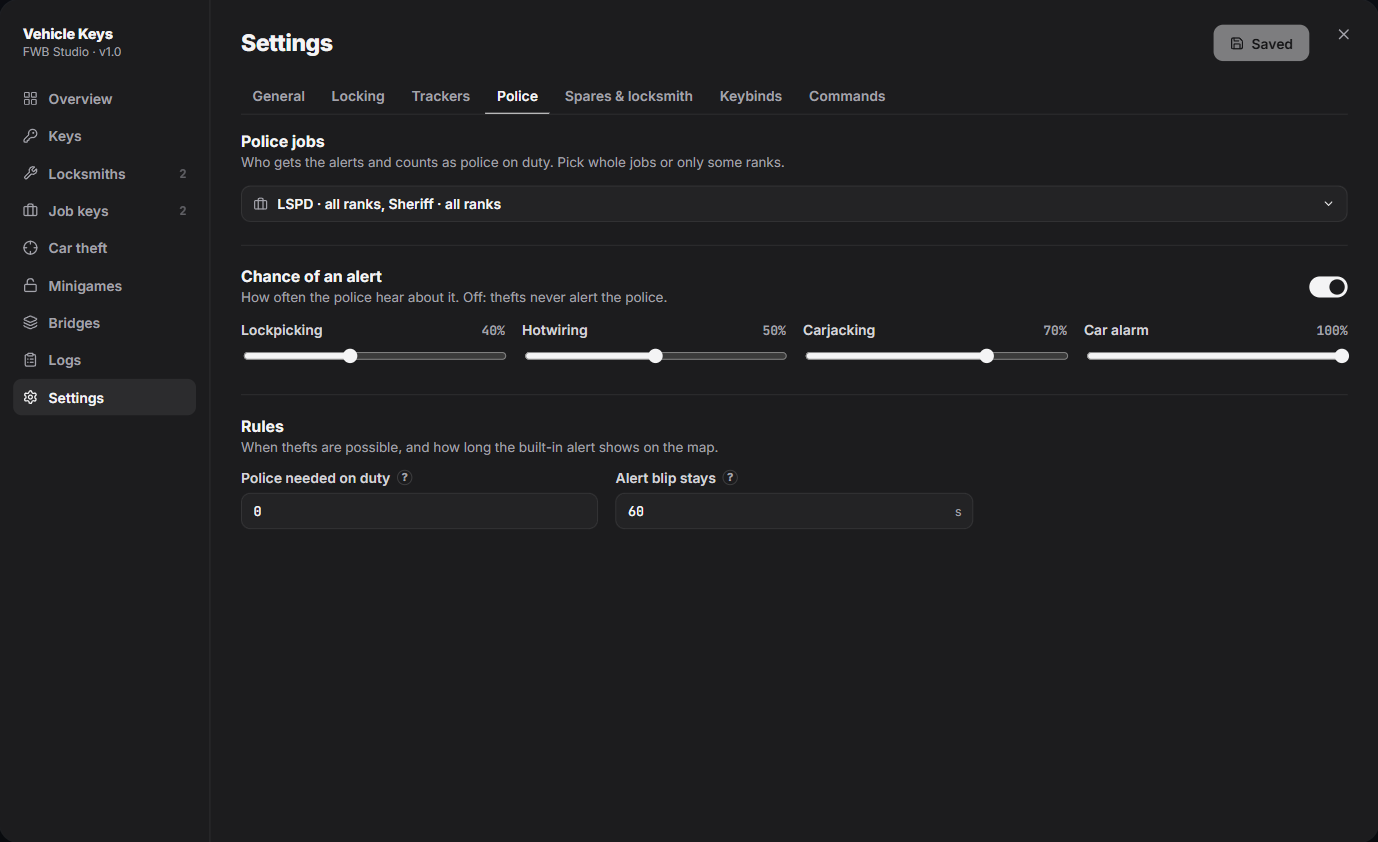
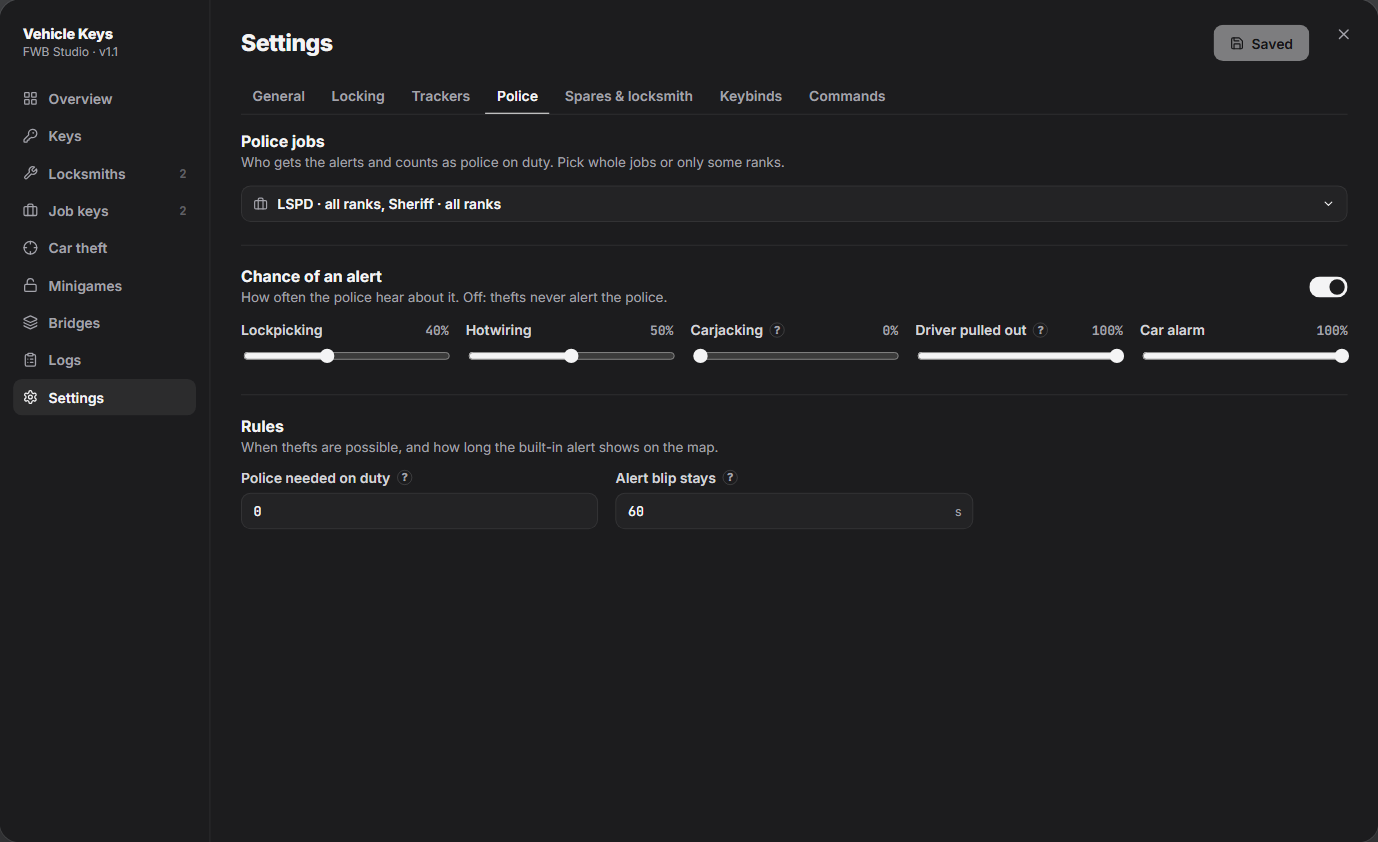
Vehicle Keys v1.1: wizard Engine step, NPC cars unlocked by default, driver pulled out alert

diff --git a/docs/resources/vehicle-keys/configuration.md b/docs/resources/vehicle-keys/configuration.md
@@ -16,30 +16,41 @@ Vehicle Keys has **no config file to edit**. Everything is set in game with `/fw
 
 ## First Setup
 
-The first time an admin opens `/fwb_vehiclekeys`, a setup wizard asks five questions. Every answer is an ordinary setting, so you can change it later on the pages below. **Skip** keeps the defaults; **Overview → Run the setup again** opens it later.
+The first time an admin opens `/fwb_vehiclekeys`, a setup wizard asks six questions. Every answer is an ordinary setting, so you can change it later on the pages below. **Skip** keeps the defaults; **Overview → Run the setup again** opens it later.
 
 | Step | Question |
 | :--- | :--- |
 | **Keys** | Key items in the inventory, or saved keys with no item |
 | **Controls** | Hold the lock key for the fob (and how long), or a key of its own; the lock, fob and engine keys |
-| **NPC cars** | Parked cars and cars on the road: all unlocked, random (and how many locked), or all locked |
+| **Engine** | How an engine that is off starts: from the key ring, with the engine key (`G`), and/or auto start (sitting down with a key, or pressing `W`). All on by default; the engine key or auto start always stays on |
+| **NPC cars** | Parked cars and cars on the road: all unlocked (the default), random (and how many locked), or all locked |
 | **Stealing cars** | Lockpick, hotwire, search for a key, carjacking: on or off |
-| **Police** | Police alerts on or off, the police jobs, the dispatch script |
+| **Police** | Police alerts on or off; alert when a driver is **pulled out** with the enter key (on by default) and on **carjacking with a weapon** (off by default); the police jobs; the dispatch script |
 
 You don't need the wizard for the script to work: without it, every setting has its default (for example the police jobs `police` and `sheriff`).
+
+::: tip Show the wizard again
+**Overview → Run the setup again** opens it with your current answers. To get the first-install wizard back, run this in your database and restart the resource (every other setting stays):
+
+```sql
+UPDATE fwb_keys_config SET v = JSON_SET(v, '$.setup.done', false) WHERE k = 'settings';
+```
+:::
 
 ![Vehicle Keys setup wizard, Controls step: hold the lock key for 1.5 seconds or a key of its own, with the lock, hold time and engine fields](/images/vehicle-keys/wizard-2-controls.png)
 
 ::: details Every step of the wizard
 ![Setup wizard step 1: key items in the inventory or saved keys with no item](/images/vehicle-keys/wizard-1-keys.png)
 
-![Setup wizard step 3: parked NPC cars and NPC cars on the road, all unlocked, random or all locked](/images/vehicle-keys/wizard-3-npc-cars.png)
+![Setup wizard step 3: how an engine that is off starts, from the key ring, with the engine key G or auto start](/images/vehicle-keys/wizard-3-engine.png)
 
-![Setup wizard step 4: lockpick, hotwire, search for a key and carjacking switches](/images/vehicle-keys/wizard-4-stealing.png)
+![Setup wizard step 4: parked NPC cars and NPC cars on the road, all unlocked, random or all locked](/images/vehicle-keys/wizard-4-npc-cars.png)
 
-![Setup wizard step 5: police alerts, police jobs and the dispatch script](/images/vehicle-keys/wizard-5-police.png)
+![Setup wizard step 5: lockpick, hotwire, search for a key and carjacking switches](/images/vehicle-keys/wizard-5-stealing.png)
 
-![Setup wizard summary: every answer with a Change button](/images/vehicle-keys/wizard-6-summary.png)
+![Setup wizard step 6: police alerts, driver pulled out and carjacking with a weapon, police jobs and the dispatch script](/images/vehicle-keys/wizard-6-police.png)
+
+![Setup wizard summary: every answer with a Change button](/images/vehicle-keys/wizard-7-summary.png)
 :::
 
 ---
@@ -65,9 +76,9 @@ You don't need the wizard for the script to work: without it, every setting has 
 | Tab | What you set there |
 | :--- | :--- |
 | **General** | Keys are items or saved keys, the key item name, how long **stolen keys** work (0 = until the owner changes the locks, the default), the format of **new plates** (for the `GeneratePlate` export), money sign and **Debug** (console messages; leave it off on a live server). |
-| **Locking** | How far the lock key and the fob reach, how far **Summon** reaches (100 m by default, up to 150 m), which key ring controls players get (windows, doors, seats, lights), lock chirp, flashing lights, fob animation, engine auto-start, engine keeps running, Summon. |
+| **Locking** | How far the lock key and the fob reach, how far **Summon** reaches (100 m by default, up to 150 m), which key ring controls players get (windows, doors, seats, lights), lock chirp, flashing lights, fob animation. **Engine:** starts by itself with a key, the engine key, the key ring's engine button (all on by default; it also starts a car nobody sits in), keeps running when you get out, Summon. While the engine is off, the driver sees a **[G] Start engine** hint at the bottom of the screen. |
 | **Trackers** | Item names (tracker, scanner, pliers), the detector held while scanning (`w_am_metaldetector` by default; trackers show no prop on the car), report rate, battery life, the fob's Track time, detector time per spot, minigame difficulties, what a wrong wire does, owner alerts and the kill switch. |
-| **Police** | Police jobs (whole job or one rank), the alert chance per action, the built-in blip time, and how many police must be on duty before lockpicking or hotwiring works. |
+| **Police** | Police jobs (whole job or one rank), the alert chance per action (lockpicking 40%, hotwiring 50%, **carjacking with a weapon 0%**, **driver pulled out 100%**, car alarm 100%), the built-in blip time, and how many police must be on duty before lockpicking or hotwiring works. **Driver pulled out** = a player pulls an NPC driver out of an unlocked car with the enter key, no weapon shown. |
 | **Spares & locksmith** | Spares per car, the spare fee, locksmith prices (new key, spare, change locks, tracker, detector, pliers, new plate), the plate cooldown and the hand-over fee. |
 | **Keybinds** | How the lock key works (tap to lock, hold for the fob, and how long: 1.5 s by default), and the default keys. |
 | **Commands** | The admin command name and its ACE. **Seats:** the seat command (`seatshuffle`, on or off) and **Passengers stay in their seat** (on by default: GTA no longer slides a front passenger into an empty driver seat). |
@@ -77,6 +88,8 @@ You don't need the wizard for the script to work: without it, every setting has 
 ![Settings, General tab: keys are items or saved keys, key item name, how long stolen keys work](/images/vehicle-keys/settings-general.png)
 
 ![Settings, Locking tab: lock key, fob and Summon reach, key ring controls](/images/vehicle-keys/settings-locking.png)
+
+![Settings, Locking tab, Engine: starts by itself with a key, engine key, key ring engine button, keeps running, Summon](/images/vehicle-keys/settings-locking-engine.png)
 
 ![Settings, Trackers tab: item names, scanner prop, report rate, battery and minigames](/images/vehicle-keys/settings-trackers.png)
 
@@ -93,7 +106,7 @@ You don't need the wizard for the script to work: without it, every setting has 
 
 | Tab | What you set there |
 | :--- | :--- |
-| **NPC cars** | **NPC cars are:** by chance (parked % and on-the-road %), every car locked, or no car locked. **Rules** are checked first, top to bottom, and the first that fits decides. Match by **vehicle type** (Emergency, Super, Motorcycles…), **model** (`police`) or **plate** (`LS*` = starts with LS). Each rule is always locked, never locked, or a chance %. |
+| **NPC cars** | **NPC cars are:** no car locked (the default), by chance (parked % and on-the-road %), or every car locked. **Rules** are checked first, top to bottom, and the first that fits decides. Match by **vehicle type** (Emergency, Super, Motorcycles…), **model** (`police`) or **plate** (`LS*` = starts with LS). Each rule is always locked, never locked, or a chance %. |
 | **Lockpicks** | Lockpick and advanced lockpick: item name (`carlockpick`, `advancedlockpick`), minigame difficulty, chance to open once the minigame is won (100% by default), chance to break. The alarm: chance and how long it sounds. |
 | **Hotwire & search** | Hotwire: time, difficulty, and the chance it works once the puzzle is won (100% by default: winning the puzzle always works). Search the car: time and chance to find a key. |
 | **Carjacking** | **Needs:** a gun, a gun or a melee weapon, or anything (bare hands). How long to threaten, the top speed of a car that still stops, and the threat animations. **What the driver does:** shares for throws you the key and runs / runs off with it / drives off / fights back, each shown as its real chance. **Police always get the key:** on by default, police jobs skip the roll. **Search the body:** time and chance (a driver who ran off with the key always has it). |

diff --git a/docs/resources/vehicle-keys/overview.md b/docs/resources/vehicle-keys/overview.md
@@ -33,7 +33,7 @@ Works on **ESX**, **QBCore** and **Qbox**, detected automatically.
 
 * **Lock key** — tap to lock or unlock the nearest car you have a key for. Hold it (1.5 s by default) to take out the key fob. The notification says which car: *Car locked — Albany Manana · KO1Z1H9 is locked.*
 * **Key fob** — the screen shows the distance, signal, lock state and plate. The buttons are lock, unlock, trunk, remote engine, **Summon** (the car drives itself to you, from up to 100 m by default, 150 m at most) and **Track** (your car on the map for a while).
-* **Engine** — the engine key turns it on and off. Turned off, it stays off: pressing W does not start it again until the engine key, or until someone gets in anew.
+* **Engine** — the engine key turns it on and off, and the fob's engine button starts and stops it from outside, also with nobody in the car. Turned off, it stays off: pressing W does not start it again until the engine key, the fob, or until someone gets in anew. While it is off, the driver sees a **[G] Start engine** hint. The admin picks which of the three ways (fob, engine key, auto start) players get.
 * **Seats** — `/seatshuffle` (renamable) moves you to the next free seat. Passengers are no longer slid into an empty driver seat by GTA (switchable).
 * **Key ring** — every key you hold, and for each car:
   * windows and doors one by one;
@@ -50,13 +50,13 @@ Works on **ESX**, **QBCore** and **Qbox**, detected automatically.
 
 | Feature | What it does |
 | :--- | :--- |
-| **NPC cars** | Parked cars and cars on the road are locked by chance, or always, or never. **Rules** by vehicle type, model or plate come first: for example, emergency cars always locked and bicycles never. |
+| **NPC cars** | Parked cars and cars on the road are unlocked by default, or locked by chance, or always. **Rules** by vehicle type, model or plate come first: for example, emergency cars always locked and bicycles never. |
 | **Lockpick** | Two items (`carlockpick`, `advancedlockpick`) with their own chances. A disc-lock puzzle; the pick may break and the alarm may go off. |
 | **Hotwire** | In the driver seat without a key: a screwdriver-in-the-ignition puzzle. Winning it starts the car (the admin can add a chance). |
 | **Search the car** | A chance to find the key in the car, once per car. |
 | **Carjacking** | Threaten an NPC driver with a gun, a melee weapon or bare hands (admin's choice): aim at the driver or anywhere on the car. A progress bar shows the threat. The car is braked and held, the driver keeps their hands up, then **throws the key at your feet and runs** (pick it up with **E**), **runs off with it**, **drives off** or **fights back**. You set the share of each. **Police always get the key** (switchable). A carjacked car you drive with its key is kept: the game no longer tidies it away as traffic. |
 | **Search the body** | A dead NPC driver may have the key. A driver who ran off with the key always has it. |
-| **Alarm & police alerts** | Chance per action, through your dispatch script or the built-in alert: a **POLICE ALERT** card for on-duty police (what happened, the car and plate, the street, how far and which way) and a flashing map blip. |
+| **Alarm & police alerts** | Chance per action. By default, pulling an NPC driver out with the enter key alerts the police, while a carjacking with a weapon stays quiet (both changeable). Through your dispatch script or the built-in alert: a **POLICE ALERT** card for on-duty police (what happened, the car and plate, the street, how far and which way) and a flashing map blip. |
 | **Owner alerts** | The owner is told their car is being stolen. |
 
 ![Built-in police alert card: Carjacking, Albany Manana with its plate, Vinewood Blvd / Power St, 640 m NE, on the map for 60 seconds](/images/vehicle-keys/player-police-alert.png)

diff --git a/docs/resources/vehicle-keys/common-errors.md b/docs/resources/vehicle-keys/common-errors.md
@@ -86,7 +86,7 @@ Cars made only in one player's game (`CreateVehicle(..., false, false)`) are ign
 ::: tip Solution
 1. Check the police jobs in **Settings → Police** (a whole job like `police`, or one rank like `sheriff:2`). The default is `police` and `sheriff`.
 2. The officer must be **on duty** in your framework (ESX: `/job` shows it).
-3. Check the alert chances there (0% = never). A carjacking alerts 70% of the time by default.
+3. Check the alert chances there (0% = never). By default a carjacking with a weapon never alerts (0%); pulling a driver out with the enter key always does (100%).
 4. Pick your dispatch script on the **Bridges** page, or leave it on auto. The built-in alert shows a **POLICE ALERT** card and a map blip to on-duty police.
 :::
 

diff --git a/docs/resources/vehicle-keys/commands.md b/docs/resources/vehicle-keys/commands.md
@@ -53,7 +53,7 @@ Everyone. Turn it off, or rename it, in **Settings → Commands → Seats**. A n
 | :--- | :--- | :--- |
 | Lock / unlock | `U` (tap) | Near a car you have a key for, or sitting in it |
 | Key fob | `U` (hold 1.5 s) | Anywhere. Tap the fob's screen for every key you hold. |
-| Engine on / off | `G` | Driver seat, with a key. Turned off, it stays off: W does not start it. |
+| Engine on / off | `G` | Driver seat, with a key. Turned off, it stays off: W does not start it. A **[G] Start engine** hint shows while it is off. |
 | Hotwire | `H` | Driver seat, without a key |
 | Search the car for a key | `J` | Driver seat, without a key |
 | Search a dead NPC driver | `E` | Next to the body (through fwb_interact) |

diff --git a/docs/resources/vehicle-keys/editable-files/server.md b/docs/resources/vehicle-keys/editable-files/server.md
@@ -151,7 +151,7 @@ end)
 | `trackerPlanted` | `source, plate, id, own` |
 | `trackerRemoved` | `source` (`nil`: admin or script), `plate, id, own` |
 | `engineKilled` | `source, plate` |
-| `policeAlerted` | `source, kind` (`lockpick` / `hotwire` / `alarm` / `carjack`), `plate, coords, model` |
+| `policeAlerted` | `source, kind` (`lockpick` / `hotwire` / `alarm` / `carjack` / `pullout`), `plate, coords, model` |
 | `alarm` | `plate, entity, netId, seconds, on` (`false` = it was stopped) |
 | `plateChanged` | Fires as `fwb_vehiclekeys:plateChanged` with `(oldPlate, newPlate)`. In the open file: `after.plateChanged({ source, oldPlate, newPlate })`. |
 
